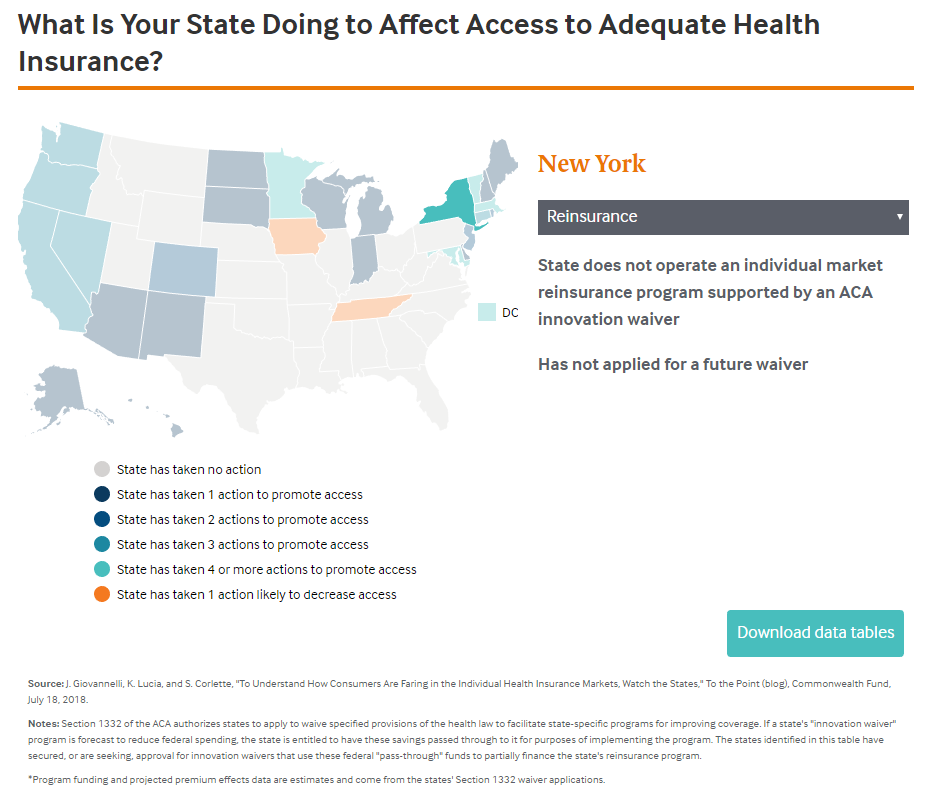
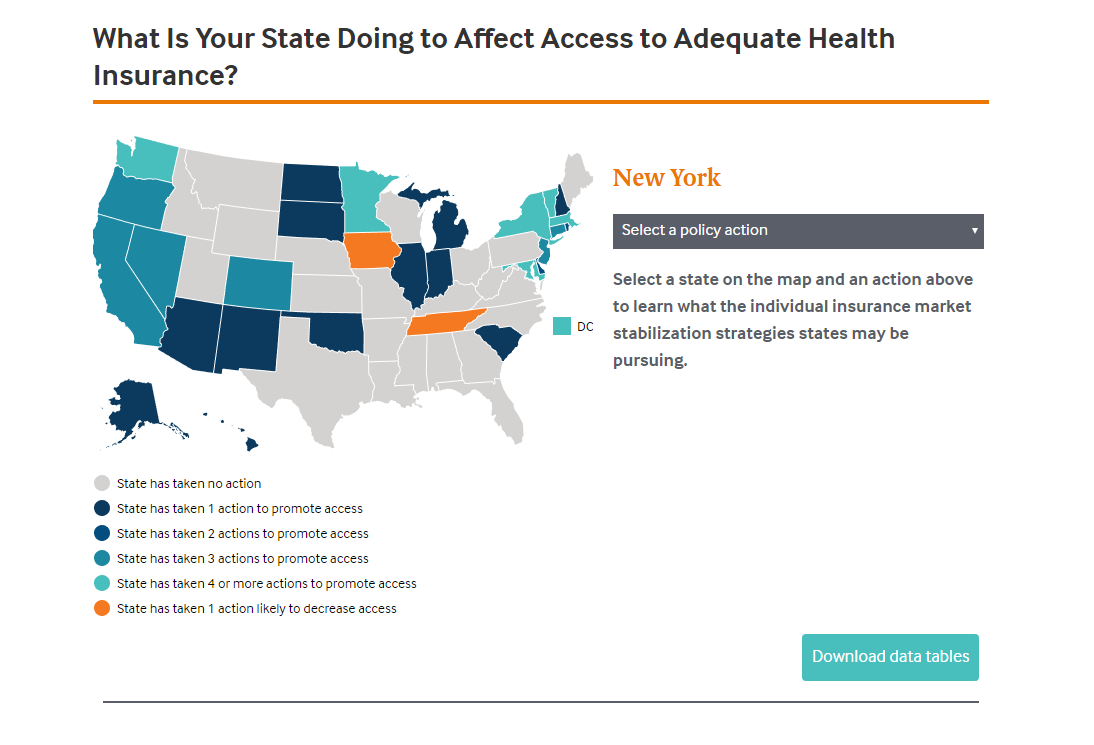
Update insurance project/move it to featured

Changed region(s): [[0.0, 0.0, 0.9904, 0.8336], [0.0309, 0.7718, 0.9904, 1.0]]

diff --git a/src/components/Home/components/Projects/Projects.js b/src/components/Home/components/Projects/Projects.js
@@ -15,7 +15,7 @@ class Projects extends React.Component {
     ];
 
     const projectTwoLinks = [
-      { href: "http://www.commonwealthfund.org/interactives/2017/july/mirror-mirror/", text: "Live Site" }
+      { href: "https://www.commonwealthfund.org/blog/2018/understand-how-consumers-are-faring-individual-health-insurance-markets-watch-states", text: "Live Site" }
     ];
 
     return (
@@ -28,8 +28,8 @@ class Projects extends React.Component {
             links={projectOneLinks}
           />
           <Project
-            background="'./images/projects/mirror-mirror.png'"
-            title="Mirror, Mirror 2017"
+            background="'./images/projects/health-insurance.png'"
+            title="What Is Your State Doing to Affect Access to Adequate Health Insurance?"
             links={projectTwoLinks}
           />
         </div>
